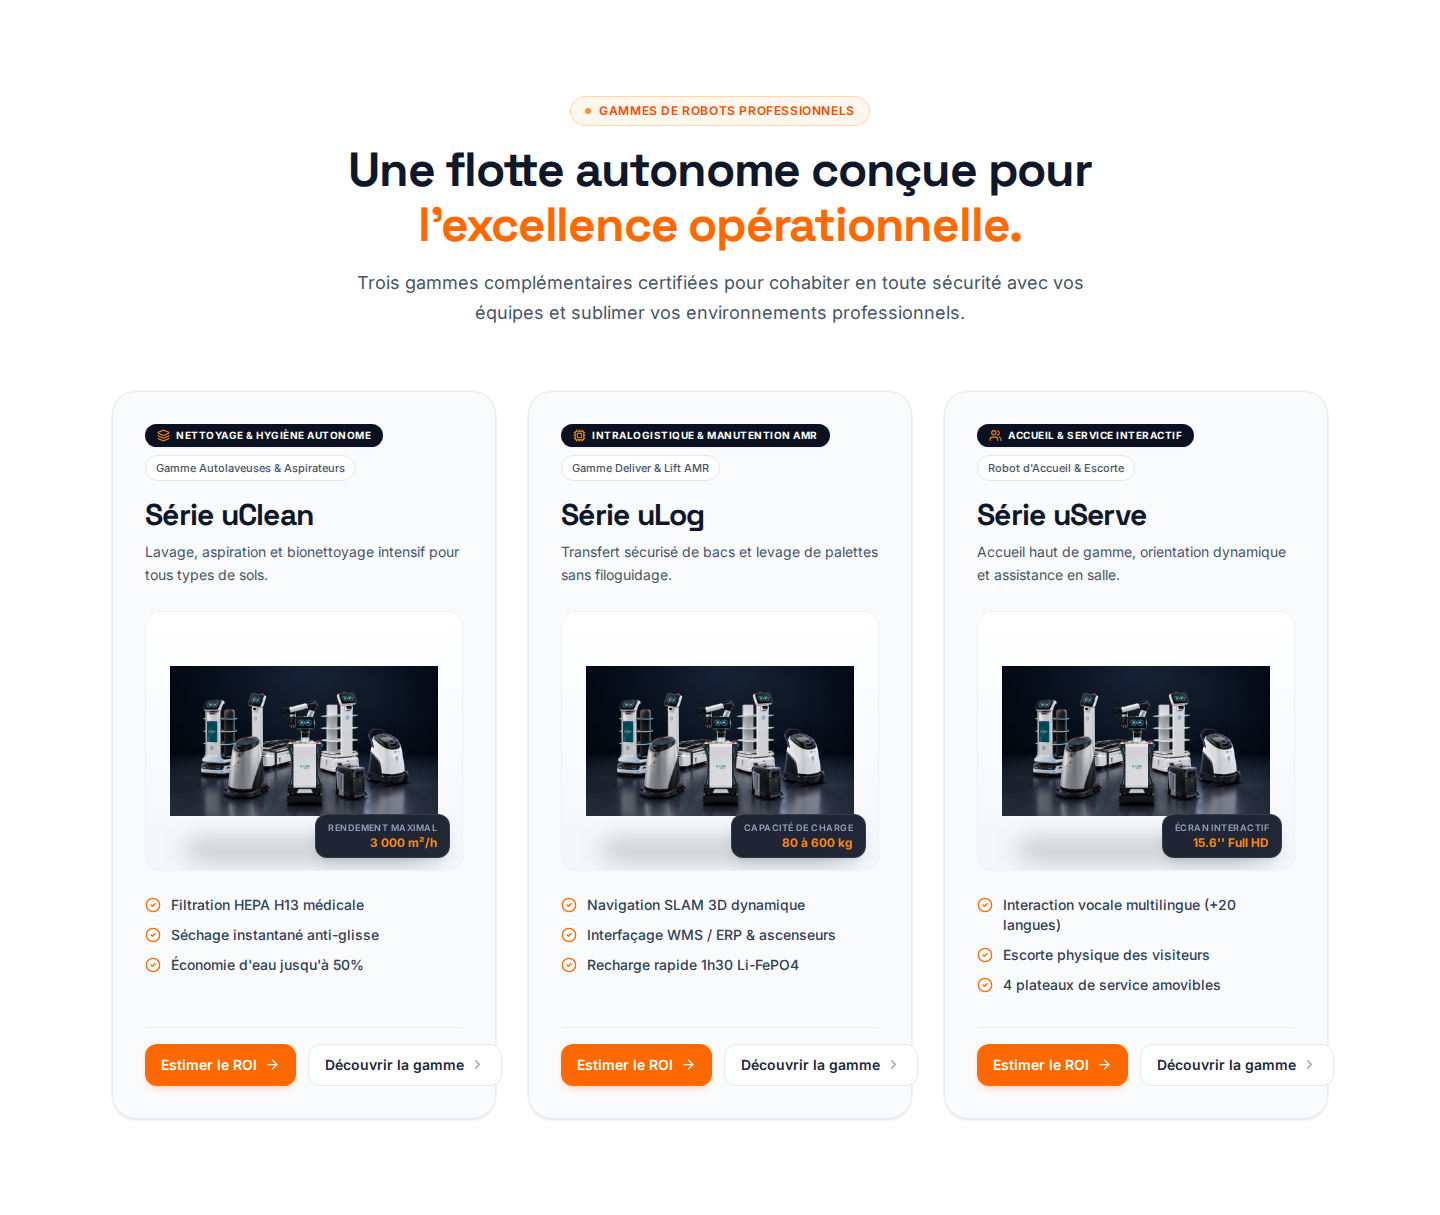
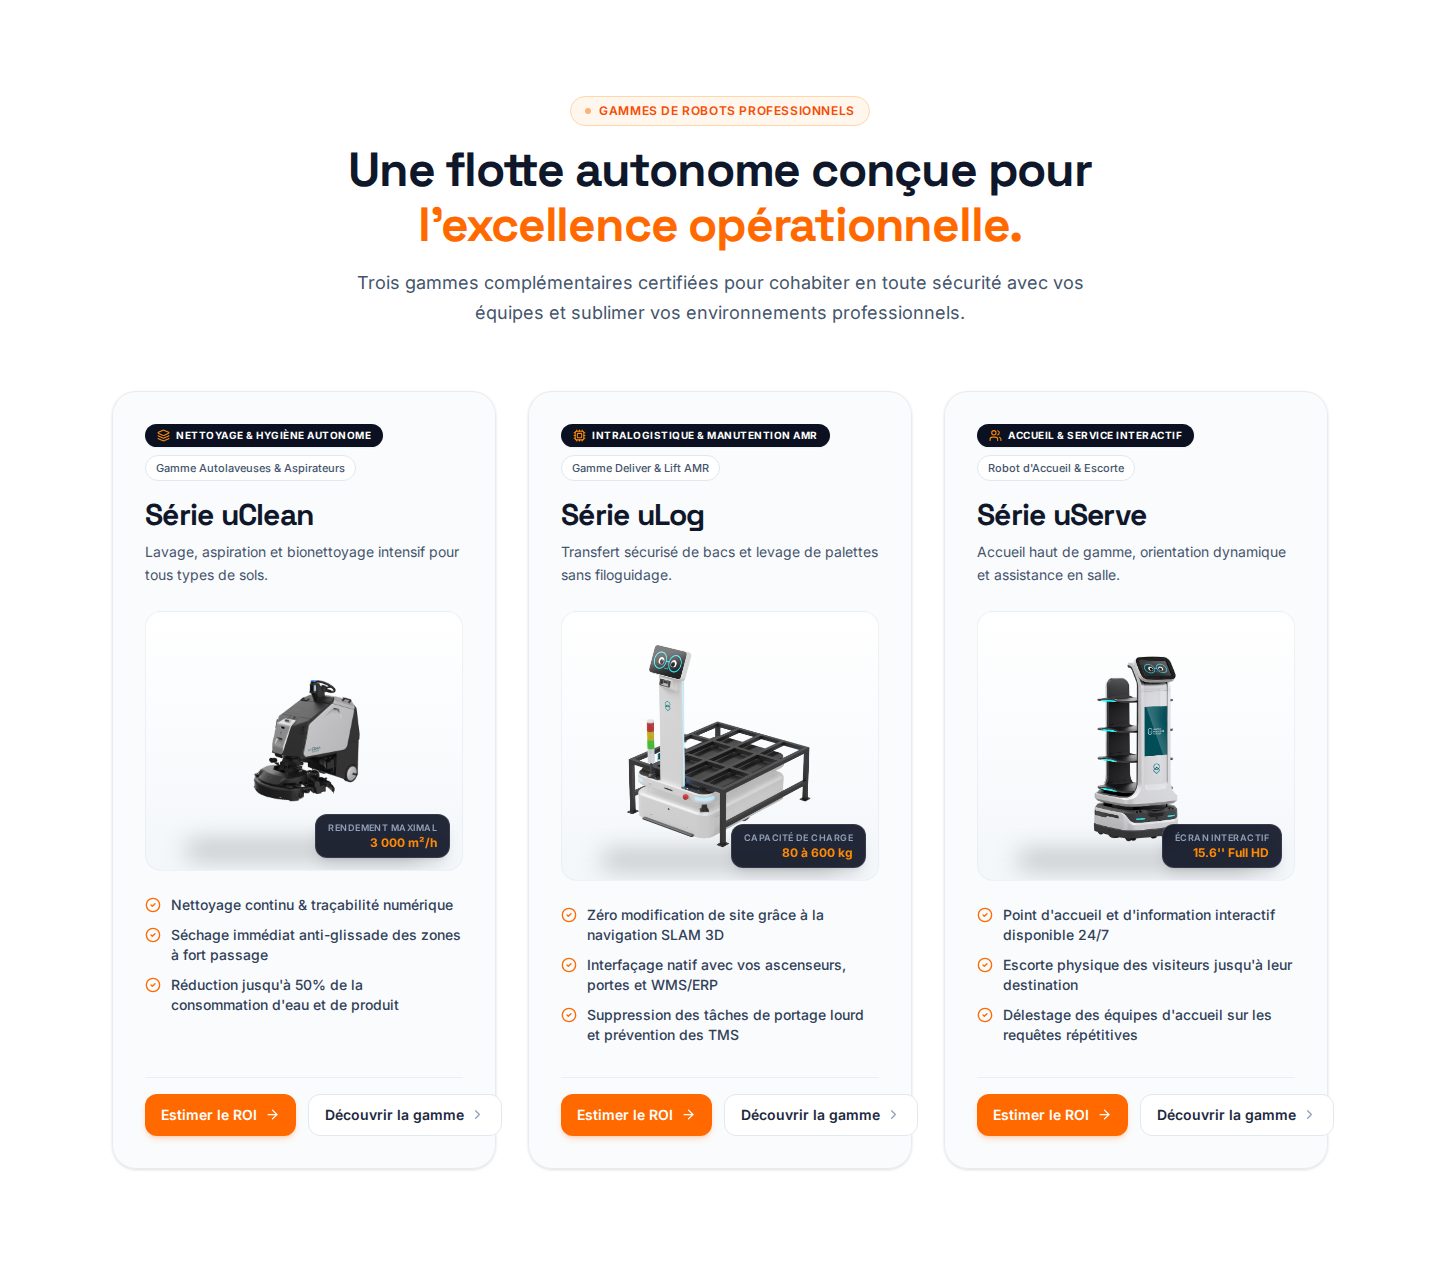
refactor: assign distinct robot visuals, light studio framing, and streamlined highlights to range showcases
- Update src/data/robotRangeShowcase.ts with unique cutout hero images for uClean (Scrub 75), uLog (Lift 600), and uServe (uServe)
- Refactor product image area to light studio background (bg-gradient-to-b from-white to-slate-100/80) with realistic radial occlusion shadows at base
- Streamline feature list to 3 concrete operational benefit highlights per card
- Regenerate desktop (1440px) and mobile (390px) preview screenshots in audit_screenshots/

diff --git a/src/data/robotRangeShowcase.ts b/src/data/robotRangeShowcase.ts
@@ -31,16 +31,16 @@ export const ROBOT_RANGE_SHOWCASES: RobotRangeShowcase[] = [
     title: "Série uClean",
     description: "Lavage, aspiration et bionettoyage intensif pour tous types de sols.",
     image: optimizeCloudinaryUrl(
-      "https://res.cloudinary.com/df1x718yw/image/upload/v1789039451/ChatGPT_Image_10_sept._2026_13_19_56_xujlb2.png",
+      "https://res.cloudinary.com/df1x718yw/image/upload/v1782745753/Scrub75_cyuy2d.png",
       800
     ),
-    imageAlt: "Gamme de robots d'entretien autonettoyants uClean par Phoenix-Botics",
+    imageAlt: "Autolaveuse autonome uClean Scrub 75 par Phoenix-Botics",
     metricLabel: "RENDEMENT MAXIMAL",
     metricValue: "3 000 m²/h",
     highlights: [
-      { text: "Filtration HEPA H13 médicale" },
-      { text: "Séchage instantané anti-glisse" },
-      { text: "Économie d'eau jusqu'à 50%" },
+      { text: "Nettoyage continu & traçabilité numérique" },
+      { text: "Séchage immédiat anti-glissade des zones à fort passage" },
+      { text: "Réduction jusqu'à 50% de la consommation d'eau et de produit" },
     ],
     roiHref: "/robots/uclean-series#simulateur-roi",
     discoverHref: "/robots/uclean-series",
@@ -54,16 +54,16 @@ export const ROBOT_RANGE_SHOWCASES: RobotRangeShowcase[] = [
     title: "Série uLog",
     description: "Transfert sécurisé de bacs et levage de palettes sans filoguidage.",
     image: optimizeCloudinaryUrl(
-      "https://res.cloudinary.com/df1x718yw/image/upload/v1789039451/ChatGPT_Image_10_sept._2026_13_19_56_xujlb2.png",
+      "https://res.cloudinary.com/df1x718yw/image/upload/v1782747964/uLogLIFT600_URGlogo_01_face_xgxuh0.png",
       800
     ),
-    imageAlt: "Robots mobiles intralogistiques AMR Série uLog Phoenix-Botics",
+    imageAlt: "Robot mobile intralogistique AMR uLog Lift 600 Phoenix-Botics",
     metricLabel: "CAPACITÉ DE CHARGE",
     metricValue: "80 à 600 kg",
     highlights: [
-      { text: "Navigation SLAM 3D dynamique" },
-      { text: "Interfaçage WMS / ERP & ascenseurs" },
-      { text: "Recharge rapide 1h30 Li-FePO4" },
+      { text: "Zéro modification de site grâce à la navigation SLAM 3D" },
+      { text: "Interfaçage natif avec vos ascenseurs, portes et WMS/ERP" },
+      { text: "Suppression des tâches de portage lourd et prévention des TMS" },
     ],
     roiHref: "/robots/ulog-series#simulateur-roi",
     discoverHref: "/robots/ulog-series",
@@ -77,16 +77,16 @@ export const ROBOT_RANGE_SHOWCASES: RobotRangeShowcase[] = [
     title: "Série uServe",
     description: "Accueil haut de gamme, orientation dynamique et assistance en salle.",
     image: optimizeCloudinaryUrl(
-      "https://res.cloudinary.com/df1x718yw/image/upload/v1789039451/ChatGPT_Image_10_sept._2026_13_19_56_xujlb2.png",
+      "https://res.cloudinary.com/df1x718yw/image/upload/v1782748309/uServe_URGlogo_02_face-mirror_cc_1_ayohed.png",
       800
     ),
     imageAlt: "Robot assistant et escorte d'accueil interactif uServe",
     metricLabel: "ÉCRAN INTERACTIF",
     metricValue: "15.6'' Full HD",
     highlights: [
-      { text: "Interaction vocale multilingue (+20 langues)" },
-      { text: "Escorte physique des visiteurs" },
-      { text: "4 plateaux de service amovibles" },
+      { text: "Point d'accueil et d'information interactif disponible 24/7" },
+      { text: "Escorte physique des visiteurs jusqu'à leur destination" },
+      { text: "Délestage des équipes d'accueil sur les requêtes répétitives" },
     ],
     roiHref: "/robots/userve-series#simulateur-roi",
     discoverHref: "/robots/userve-series",
